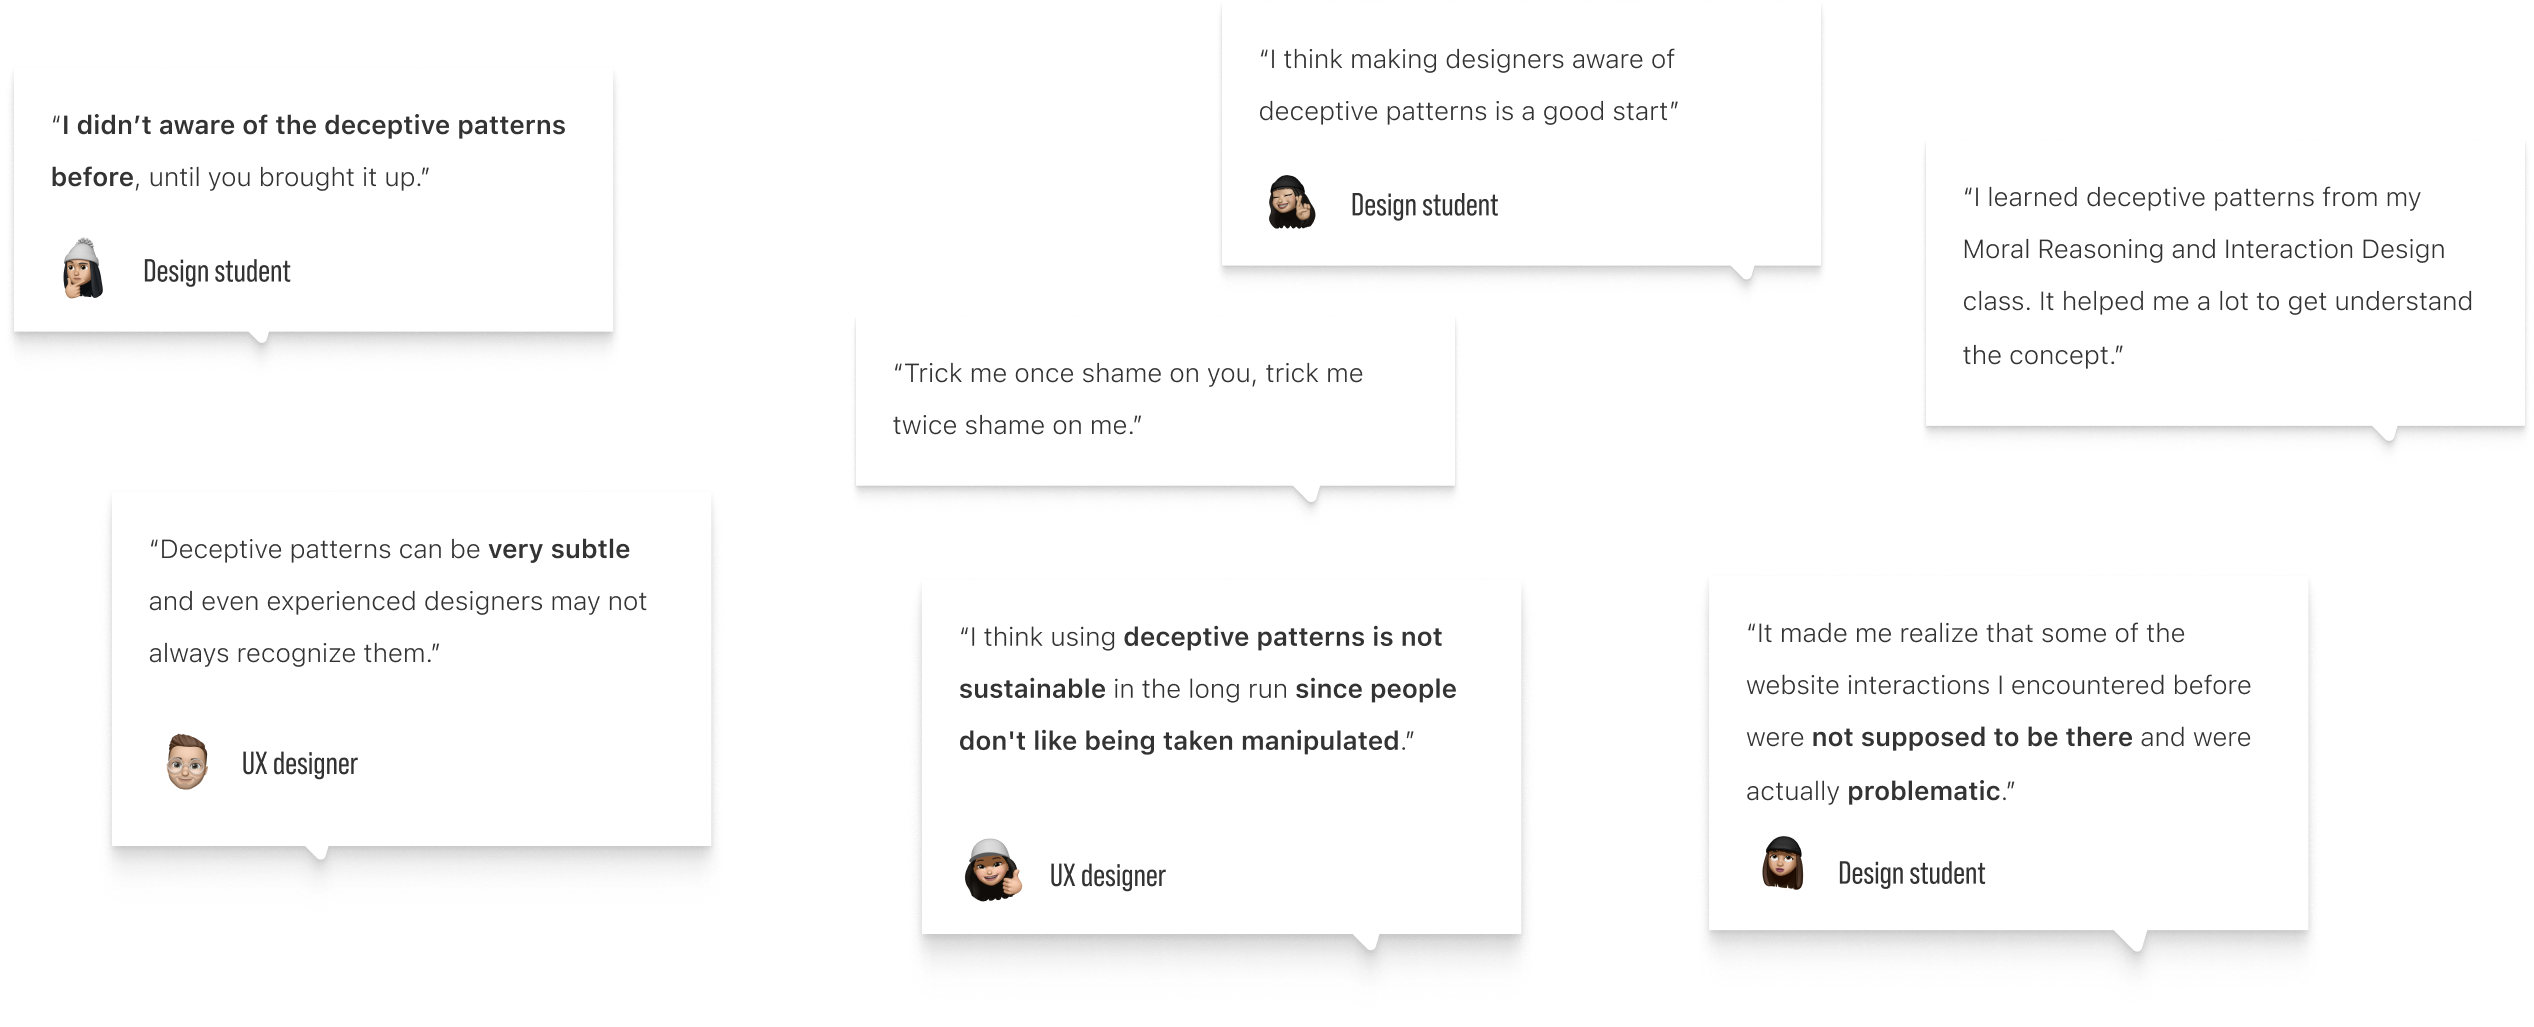
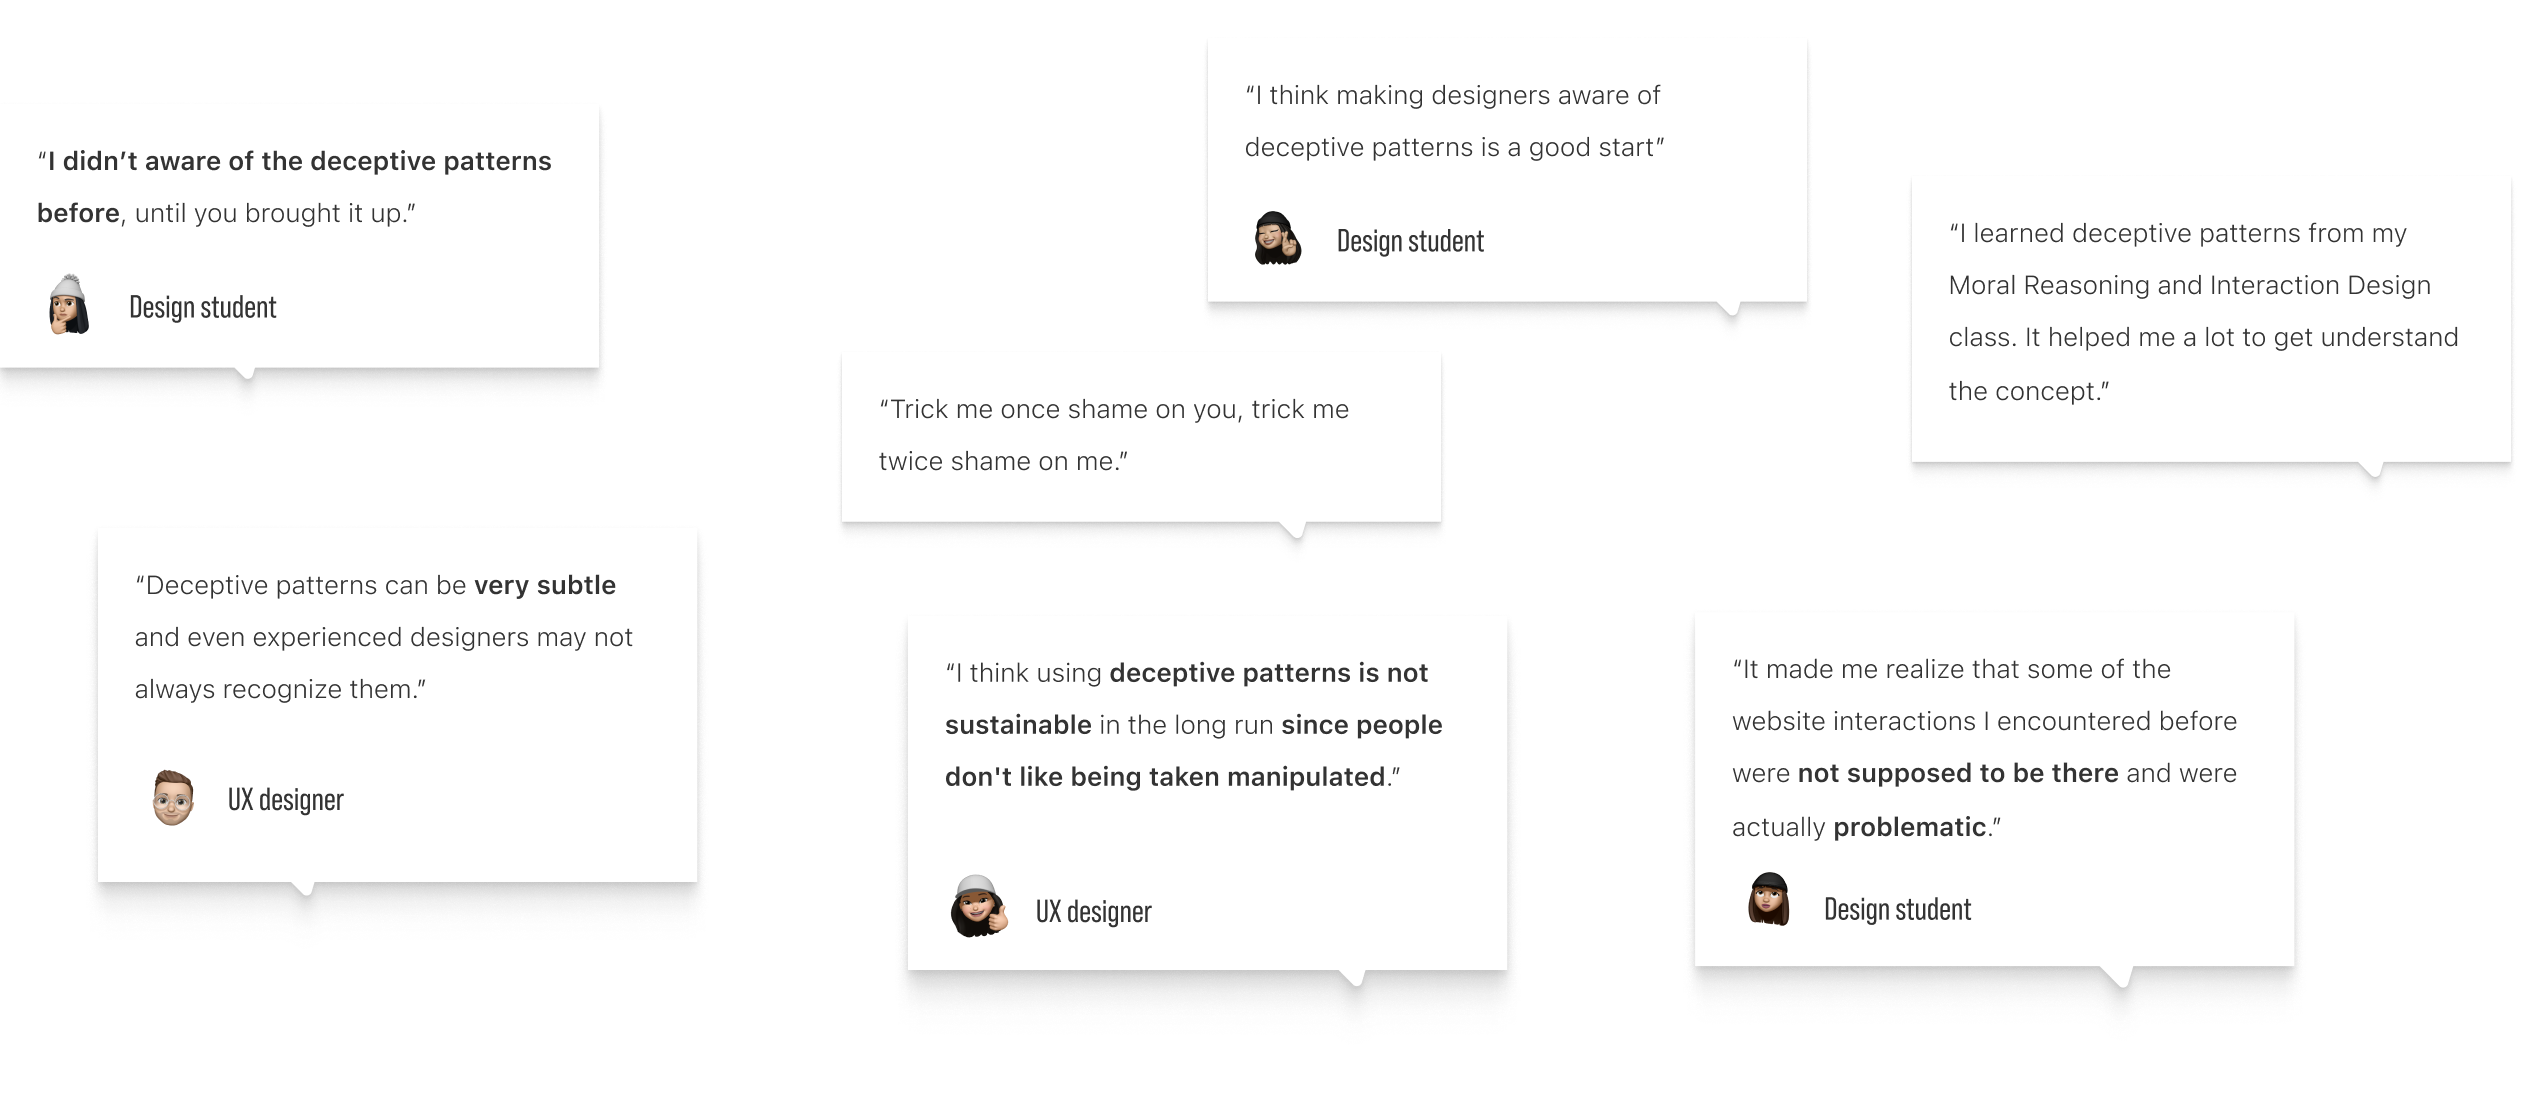
Update 2 imgs

diff --git a/nearbers.html b/nearbers.html
@@ -215,7 +215,7 @@
           </div>
         </div>
       </div>
-      <img class="full-width-img-24" alt="nearBers interview quotes" src="img/nearBersPage/2x-interview-quotes.jpg" />
+      <img class="block-img-small-gap" alt="nearBers interview quotes" src="img/nearBersPage/2x-interview-quotes.jpg" />
     </section>
 
     <!-- Persona -->
